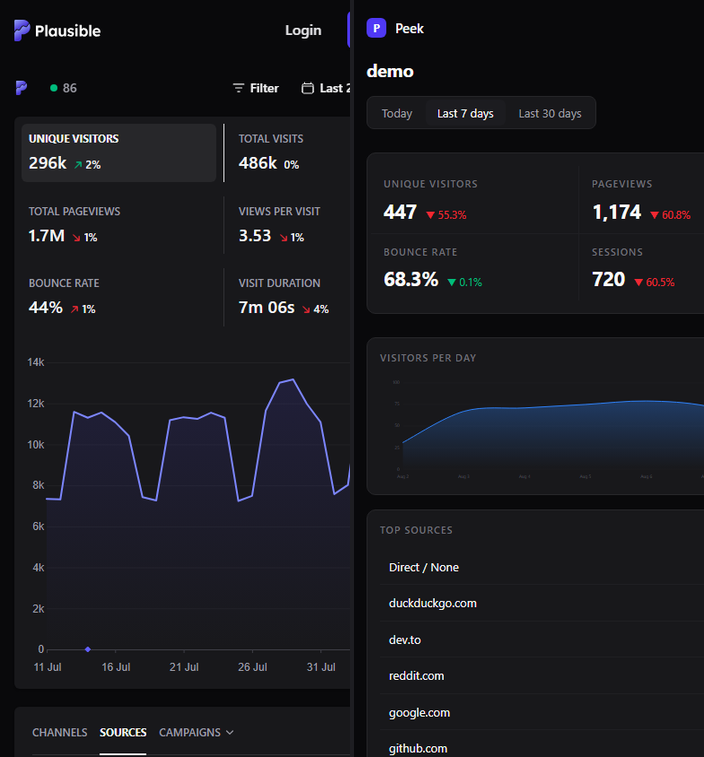
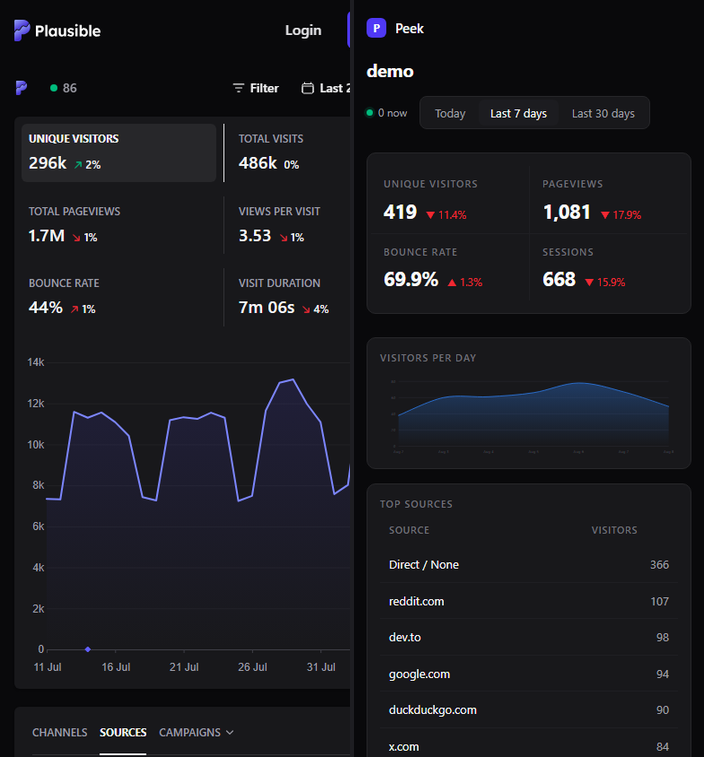
round 3: honest windowed stats ([start,end) rangeStats+top*), table column headers, live visitor chip, day-first dates, niceStep y-axis, CSS-sized chart text, CDP capture pipeline

diff --git a/lib.js b/lib.js
@@ -74,40 +74,40 @@ function insertRow(row) {
     row.path || '/', row.ref || '', row.scr || '', row.country || '');
 }
 
-function rangeStats(site, startTs) {
+function rangeStats(site, startTs, endTs = Math.floor(Date.now() / 1000)) {
   const s = db.prepare(
-    'SELECT COUNT(*) pv, COUNT(DISTINCT visitor) uv, COUNT(DISTINCT sess) sessions FROM events WHERE site=? AND ts>=?'
-  ).get(site, startTs);
+    'SELECT COUNT(*) pv, COUNT(DISTINCT visitor) uv, COUNT(DISTINCT sess) sessions FROM events WHERE site=? AND ts>=? AND ts<?'
+  ).get(site, startTs, endTs);
   const bounced = db.prepare(
-    'SELECT COUNT(*) c FROM (SELECT sess FROM events WHERE site=? AND ts>=? GROUP BY sess HAVING COUNT(*)=1)'
-  ).get(site, startTs).c;
+    'SELECT COUNT(*) c FROM (SELECT sess FROM events WHERE site=? AND ts>=? AND ts<? GROUP BY sess HAVING COUNT(*)=1)'
+  ).get(site, startTs, endTs).c;
   s.bounced = bounced;
   s.bounce = s.sessions ? Math.round((bounced / s.sessions) * 1000) / 10 : 0;
   return s;
 }
 
-function topPages(site, startTs, n = 10) {
+function topPages(site, startTs, n = 10, endTs = Math.floor(Date.now() / 1000)) {
   return db.prepare(
-    'SELECT path, COUNT(*) pv, COUNT(DISTINCT visitor) uv FROM events WHERE site=? AND ts>=? GROUP BY path ORDER BY pv DESC LIMIT ?'
-  ).all(site, startTs, n);
+    'SELECT path, COUNT(*) pv, COUNT(DISTINCT visitor) uv FROM events WHERE site=? AND ts>=? AND ts<? GROUP BY path ORDER BY pv DESC LIMIT ?'
+  ).all(site, startTs, endTs, n);
 }
 
-function topRefs(site, startTs, n = 10) {
+function topRefs(site, startTs, n = 10, endTs = Math.floor(Date.now() / 1000)) {
   return db.prepare(
-    'SELECT ref, COUNT(*) pv, COUNT(DISTINCT visitor) uv FROM events WHERE site=? AND ts>=? GROUP BY ref ORDER BY pv DESC LIMIT ?'
-  ).all(site, startTs, n);
+    'SELECT ref, COUNT(*) pv, COUNT(DISTINCT visitor) uv FROM events WHERE site=? AND ts>=? AND ts<? GROUP BY ref ORDER BY pv DESC LIMIT ?'
+  ).all(site, startTs, endTs, n);
 }
 
-function topCountries(site, startTs, n = 10) {
+function topCountries(site, startTs, n = 10, endTs = Math.floor(Date.now() / 1000)) {
   return db.prepare(
-    'SELECT country, COUNT(*) pv, COUNT(DISTINCT visitor) uv FROM events WHERE site=? AND ts>=? AND country!=\'\' GROUP BY country ORDER BY pv DESC LIMIT ?'
-  ).all(site, startTs, n);
+    'SELECT country, COUNT(*) pv, COUNT(DISTINCT visitor) uv FROM events WHERE site=? AND ts>=? AND ts<? AND country!=\'\' GROUP BY country ORDER BY pv DESC LIMIT ?'
+  ).all(site, startTs, endTs, n);
 }
 
-function topScr(site, startTs, n = 5) {
+function topScr(site, startTs, n = 5, endTs = Math.floor(Date.now() / 1000)) {
   return db.prepare(
-    'SELECT scr, COUNT(*) pv, COUNT(DISTINCT visitor) uv FROM events WHERE site=? AND ts>=? AND scr!=\'\' GROUP BY scr ORDER BY pv DESC LIMIT ?'
-  ).all(site, startTs, n);
+    'SELECT scr, COUNT(*) pv, COUNT(DISTINCT visitor) uv FROM events WHERE site=? AND ts>=? AND ts<? AND scr!=\'\' GROUP BY scr ORDER BY pv DESC LIMIT ?'
+  ).all(site, startTs, endTs, n);
 }
 
 function perDay(site, startTs, endTs) {
@@ -135,22 +135,32 @@ function perHour(site, startTs, endTs) {
 
 const fmt = n => n >= 10000 ? (n / 1000).toFixed(1) + 'k' : String(n).replace(/\B(?=(\d{3})+(?!\d))/g, ',');
 
-function niceMax(v) {
-  if (v <= 0) return 1;
-  const step = Math.pow(10, Math.floor(Math.log10(v)));
-  const m = v / step;
-  return (m <= 1 ? 1 : m <= 2 ? 2 : m <= 5 ? 5 : 10) * step;
+// distinct visitors with an event in the last 5 minutes (live now)
+function currentVisitors(site) {
+  const since = Math.floor((Date.now() - 5 * 60000) / 1000);
+  const r = db.prepare('SELECT COUNT(DISTINCT visitor) c FROM events WHERE site = ? AND ts >= ?').get(site, since);
+  return r ? r.c : 0;
 }
 
-function fmtDay(d) { // '2026-08-02' -> 'Aug 2'
+// nice step for y-axis: rounds to 1/2/5 x 10^n so gridline values are clean
+function niceStep(v) {
+  const p = Math.pow(10, Math.floor(Math.log10(v)));
+  const m = v / p;
+  return (m <= 1 ? 1 : m <= 2 ? 2 : m <= 5 ? 5 : 10) * p;
+}
+
+function fmtDay(d) { // '2026-08-02' -> '2 Aug' (Plausible style, day-first)
   const [y, m, dd] = d.split('-').map(Number);
-  return new Date(Date.UTC(y, m - 1, dd)).toLocaleString('en-US', { month: 'short', day: 'numeric', timeZone: 'UTC' });
+  return new Date(Date.UTC(y, m - 1, dd)).toLocaleString('en-US', { day: 'numeric', month: 'short', timeZone: 'UTC' });
 }
 
 // Inline SVG area chart (Plausible-style), zero client JS. mode: 'day' or 'hour'.
+// Text size is set by CSS (.chart text) so it stays 12px real regardless of viewBox scaling.
 function chartSVG(points, mode) {
-  const W = 900, H = 240, padL = 52, padR = 20, padT = 14, padB = 30;
-  const max = niceMax(Math.max(1, ...points.map(p => p.uv)));
+  const W = 900, H = 240, padL = 56, padR = 28, padT = 14, padB = 30;
+  const rawMax = Math.max(1, ...points.map(p => p.uv));
+  const step = niceStep(rawMax / 4);            // 4 divisions, clean numbers
+  const max = Math.ceil(rawMax / step) * step;  // e.g. 79 -> step 20 -> max 80
   const iw = W - padL - padR, ih = H - padT - padB;
   const X = i => padL + (points.length === 1 ? iw / 2 : (i / (points.length - 1)) * iw);
   const Y = v => padT + ih - (v / max) * ih;
@@ -158,7 +168,7 @@ function chartSVG(points, mode) {
   for (let g = 0; g <= 4; g++) {
     const v = (max / 4) * g, y = Y(v);
     out += `<line x1="${padL}" y1="${y}" x2="${W - padR}" y2="${y}" stroke="#222228" stroke-width="1"/>`;
-    out += `<text x="${padL - 8}" y="${y + 3}" fill="#52525b" font-size="10" text-anchor="end">${fmt(v)}</text>`;
+    out += `<text x="${padL - 9}" y="${y + 4}" text-anchor="end">${fmt(v)}</text>`;
   }
   const pts = points.map((p, i) => [X(i), Y(p.uv)]);
   let d = `M ${pts[0][0]} ${pts[0][1]}`;
@@ -176,13 +186,13 @@ function chartSVG(points, mode) {
     const label = mode === 'hour' ? `${String(p.h).padStart(2, '0')}:00` : p.day;
     out += `<circle cx="${X(i)}" cy="${Y(p.uv)}" r="3" fill="transparent"><title>${label} - ${fmt(p.uv)} visitors</title></circle>`;
   });
-  const step = Math.max(1, Math.floor(points.length / 6));
-  for (let i = 0; i < points.length; i += step) {
+  const stepX = Math.max(1, Math.floor(points.length / 6));
+  for (let i = 0; i < points.length; i += stepX) {
     const p = points[i];
     const label = mode === 'hour' ? `${String(p.h).padStart(2, '0')}h` : fmtDay(p.day);
-    out += `<text x="${X(i)}" y="${H - 10}" fill="#52525b" font-size="10" text-anchor="middle">${label}</text>`;
+    out += `<text x="${X(i)}" y="${H - 10}" text-anchor="middle">${label}</text>`;
   }
   return `<svg class="chart" viewBox="0 0 ${W} ${H}" role="img" aria-label="Visitors per ${mode}">${out}</svg>`;
 }
 
-module.exports = { db, SESSION_IDLE_MS, dayKey, visitorHash, isBot, record, insertRow, rangeStats, topPages, topRefs, topCountries, topScr, perDay, perHour, chartSVG, fmt };
+module.exports = { db, SESSION_IDLE_MS, dayKey, visitorHash, isBot, record, insertRow, rangeStats, topPages, topRefs, topCountries, topScr, perDay, perHour, chartSVG, currentVisitors, fmt };

diff --git a/server.js b/server.js
@@ -61,11 +61,12 @@ function trend(cur, prev, invert) {
   return `<span class="tr ${cls}">${arrow} ${Math.abs(pct)}%</span>`;
 }
 
-function rows(data, nameKey, countKey = 'pv', empty = 'Nothing yet') {
-  if (!data.length) return `<div class="empty">${empty}</div>`;
-  return '<table><tbody>' + data.map(r =>
-    `<tr><td>${esc(r[nameKey] || 'Direct / None')}</td><td class="n">${lib.fmt(r[countKey])}</td></tr>`
-  ).join('') + '</tbody></table>';
+function rows(data, nameKey, countKey = 'pv', headers = ['Source', 'Visitors']) {
+  if (!data.length) return `<div class="empty">Nothing yet</div>`;
+  return `<table><thead><tr><th>${headers[0]}</th><th>${headers[1]}</th></tr></thead><tbody>` +
+    data.map(r =>
+      `<tr><td>${esc(r[nameKey] || 'Direct / None')}</td><td class="n">${lib.fmt(r[countKey])}</td></tr>`
+    ).join('') + '</tbody></table>';
 }
 
 const COUNTRIES = { IN: 'India', US: 'United States', GB: 'United Kingdom', DE: 'Germany', FR: 'France', NL: 'Netherlands', IE: 'Ireland', BR: 'Brazil', AU: 'Australia', SG: 'Singapore', MY: 'Malaysia', RU: 'Russia', ZA: 'South Africa', JP: 'Japan', CA: 'Canada', AE: 'UAE', PK: 'Pakistan', BD: 'Bangladesh', NG: 'Nigeria', KE: 'Kenya', ES: 'Spain', IT: 'Italy', SE: 'Sweden', CH: 'Switzerland', PL: 'Poland', UA: 'Ukraine', TR: 'Turkey', ID: 'Indonesia', TH: 'Thailand', VN: 'Vietnam', PH: 'Philippines', KR: 'South Korea', TW: 'Taiwan', HK: 'Hong Kong', NZ: 'New Zealand', MX: 'Mexico', AR: 'Argentina', CO: 'Colombia', EG: 'Egypt', IL: 'Israel', FI: 'Finland', NO: 'Norway', DK: 'Denmark', AT: 'Austria', BE: 'Belgium', PT: 'Portugal', CZ: 'Czechia', RO: 'Romania', GR: 'Greece', HU: 'Hungary' };
@@ -85,8 +86,8 @@ function renderDashboard(req, res) {
     '30d': { start: now - 29 * DAY, len: 30 * DAY, label: 'Last 30 days' }
   };
   const { start, len } = ranges[range];
-  const cur = lib.rangeStats(SITE, Math.floor(start / 1000));
-  const prev = lib.rangeStats(SITE, Math.floor((start - len) / 1000));
+  const cur = lib.rangeStats(SITE, Math.floor(start / 1000), Math.floor(now / 1000));
+  const prev = lib.rangeStats(SITE, Math.floor((start - len) / 1000), Math.floor(start / 1000));
   const links = Object.entries(ranges).map(([k, v]) =>
     `<a href="/dashboard?range=${k}"${k === range ? ' class="on"' : ''}>${v.label}</a>`).join('');
 
@@ -105,11 +106,12 @@ function renderDashboard(req, res) {
     .replaceAll('{{PV}}', lib.fmt(cur.pv)).replaceAll('{{PV_TREND}}', trend(cur.pv, prev.pv))
     .replaceAll('{{BOUNCE}}', cur.bounce + '%').replaceAll('{{BOUNCE_TREND}}', trend(cur.bounce, prev.bounce, true))
     .replaceAll('{{SESSIONS}}', lib.fmt(cur.sessions)).replaceAll('{{SESSIONS_TREND}}', trend(cur.sessions, prev.sessions))
+    .replaceAll('{{LIVE}}', lib.currentVisitors(SITE))
     .replaceAll('{{CHART}}', chart)
-    .replaceAll('{{REFS}}', rows(lib.topRefs(SITE, Math.floor(start / 1000)), 'ref'))
-    .replaceAll('{{PAGES}}', rows(lib.topPages(SITE, Math.floor(start / 1000)), 'path'))
-    .replaceAll('{{COUNTRIES}}', rows(lib.topCountries(SITE, Math.floor(start / 1000)).map(r => ({ ...r, country: cname(r.country) })), 'country'))
-    .replaceAll('{{DEVICES}}', rows(lib.topScr(SITE, Math.floor(start / 1000)).map(r => ({ ...r, scr: r.scr[0].toUpperCase() + r.scr.slice(1) })), 'scr'));
+    .replaceAll('{{REFS}}', rows(lib.topRefs(SITE, Math.floor(start / 1000)), 'ref', 'pv', ['Source', 'Visitors']))
+    .replaceAll('{{PAGES}}', rows(lib.topPages(SITE, Math.floor(start / 1000)), 'path', 'pv', ['Page', 'Pageviews']))
+    .replaceAll('{{COUNTRIES}}', rows(lib.topCountries(SITE, Math.floor(start / 1000)).map(r => ({ ...r, country: cname(r.country) })), 'country', 'pv', ['Country', 'Visitors']))
+    .replaceAll('{{DEVICES}}', rows(lib.topScr(SITE, Math.floor(start / 1000)).map(r => ({ ...r, scr: r.scr[0].toUpperCase() + r.scr.slice(1) })), 'scr', 'pv', ['Device', 'Visitors']));
   res.set('Cache-Control', 'no-store');
   res.send(html);
 }

diff --git a/capture.js b/capture.js
@@ -1,0 +1,51 @@
+// Capture both dashboard viewports via CDP (the --screenshot CLI flag silently
+// drops the table count column at 390px; CDP capture renders faithfully).
+const { spawn } = require('node:child_process');
+const fs = require('node:fs');
+
+const CHROME = 'C:/Program Files/Google/Chrome/Application/chrome.exe';
+const URL = 'http://admin:peek-admin-2026@localhost:8000/dashboard?range=7d';
+const OUT = (w) => `C:/Users/Spoidy/peek/refs/ours-${w === 1440 ? 'desktop' : 'mobile'}.png`;
+
+async function capture(width, height) {
+  const port = 9800 + Math.floor(Math.random() * 100);
+  const chrome = spawn(CHROME, [
+    '--headless=new', '--disable-gpu', `--remote-debugging-port=${port}`,
+    '--user-data-dir=/tmp/cap-' + width, '--no-first-run', 'about:blank'
+  ]);
+  let target;
+  for (let i = 0; i < 50; i++) {
+    await new Promise(r => setTimeout(r, 200));
+    try {
+      const res = await fetch(`http://127.0.0.1:${port}/json`);
+      const list = await res.json();
+      target = list.find(t => t.type === 'page');
+      if (target) break;
+    } catch { /* not up yet */ }
+  }
+  if (!target) { chrome.kill(); throw new Error('no target'); }
+  const ws = new WebSocket(target.webSocketDebuggerUrl);
+  await new Promise((res, rej) => { ws.onopen = res; ws.onerror = rej; });
+  let id = 0;
+  const pending = new Map();
+  ws.onmessage = e => {
+    const m = JSON.parse(e.data);
+    if (m.id && pending.has(m.id)) { pending.get(m.id)(m); pending.delete(m.id); }
+  };
+  const send = (method, params = {}) => new Promise(res => {
+    const i = ++id; pending.set(i, res); ws.send(JSON.stringify({ id: i, method, params }));
+  });
+  await send('Page.enable');
+  await send('Emulation.setDeviceMetricsOverride', { width, height, deviceScaleFactor: 1, mobile: width < 760 });
+  await send('Page.navigate', { url: URL });
+  await new Promise(r => setTimeout(r, 4000));
+  const shot = await send('Page.captureScreenshot', { format: 'png', captureBeyondViewport: false });
+  fs.writeFileSync(OUT(width), Buffer.from(shot.result.data, 'base64'));
+  console.log(`captured ${OUT(width)} (${width}x${height})`);
+  ws.close(); chrome.kill();
+}
+
+(async () => {
+  await capture(1440, 900);
+  await capture(390, 844);
+})();

diff --git a/views/dashboard.html b/views/dashboard.html
@@ -14,6 +14,9 @@ body{background:var(--bg);color:var(--txt);font:14px/1.5 system-ui,-apple-system
 .mark{width:22px;height:22px;border-radius:6px;background:#4f39f6;color:#fff;display:inline-flex;align-items:center;justify-content:center;font-size:12px;font-weight:700}
 .sitebar{display:flex;align-items:center;justify-content:space-between;gap:16px;margin-bottom:26px}
 .sitename{font-size:20px;font-weight:650;letter-spacing:-.015em}
+.sitebar-right{display:flex;align-items:center;gap:14px}
+.live{display:inline-flex;align-items:center;gap:6px;color:var(--mut);font-size:12px}
+.live i{width:7px;height:7px;border-radius:50%;background:var(--up);box-shadow:0 0 0 3px rgba(0,188,125,.15)}
 .ranges{display:flex;gap:2px;background:var(--panel);border:1px solid var(--line);border-radius:8px;padding:3px}
 .ranges a{color:var(--mut);text-decoration:none;padding:5px 13px;border-radius:6px;font-size:13px;transition:background .15s,color .15s}
 .ranges a:hover{color:var(--txt)}
@@ -39,6 +42,8 @@ td:last-child{text-align:right;font-variant-numeric:tabular-nums;color:var(--mut
 tr:last-child td{border-bottom:none}
 .empty{color:var(--dim);font-size:13px;padding:10px 2px}
 .chart{width:100%;height:auto;display:block}
+.chart text{font-size:12px;fill:#52525b}
+.chart line{vector-effect:non-scaling-stroke}
 @media (max-width:760px){
   .wrap{padding:20px 14px 48px}
   .sitebar{flex-direction:column;align-items:flex-start;gap:14px}
@@ -58,7 +63,8 @@ tr:last-child td{border-bottom:none}
   <div class="brand"><span class="mark">P</span>Peek</div>
   <div class="sitebar">
     <div class="sitename">{{SITE}}</div>
-    <nav class="ranges" aria-label="Date range">{{RANGE_LINKS}}</nav>
+    <div class="sitebar-right"><span class="live"><i></i>{{LIVE}} now</span>
+    <nav class="ranges" aria-label="Date range">{{RANGE_LINKS}}</nav></div>
   </div>
   <div class="kpis">
     <div class="kpi"><h3>Unique visitors</h3><div class="valrow"><div class="num">{{UV}}</div>{{UV_TREND}}</div></div>

diff --git a/seed.js b/seed.js
@@ -55,8 +55,8 @@ for (let d = DAYS - 1; d >= 0; d--) {
   // organic-ish volume: weekday up, weekend down, growth trend, occasional spikes
   let vol = 70 + rnd() * 40;
   if (weekend) vol *= 0.55;
-  vol *= (1 + (DAYS - d) * 0.015);
-  if (rnd() < 0.08) vol *= 2.4; // HN-style spike
+  vol *= (1 + (DAYS - d) * 0.01); // growth toward today: recent windows beat previous ones
+  if (rnd() < 0.08) vol *= 1.7; // mild spike, keeps trends sane (no -55% shock deltas)
   const n = Math.round(vol);
   const daySessions = [];
   for (let v = 0; v < n; v++) {
